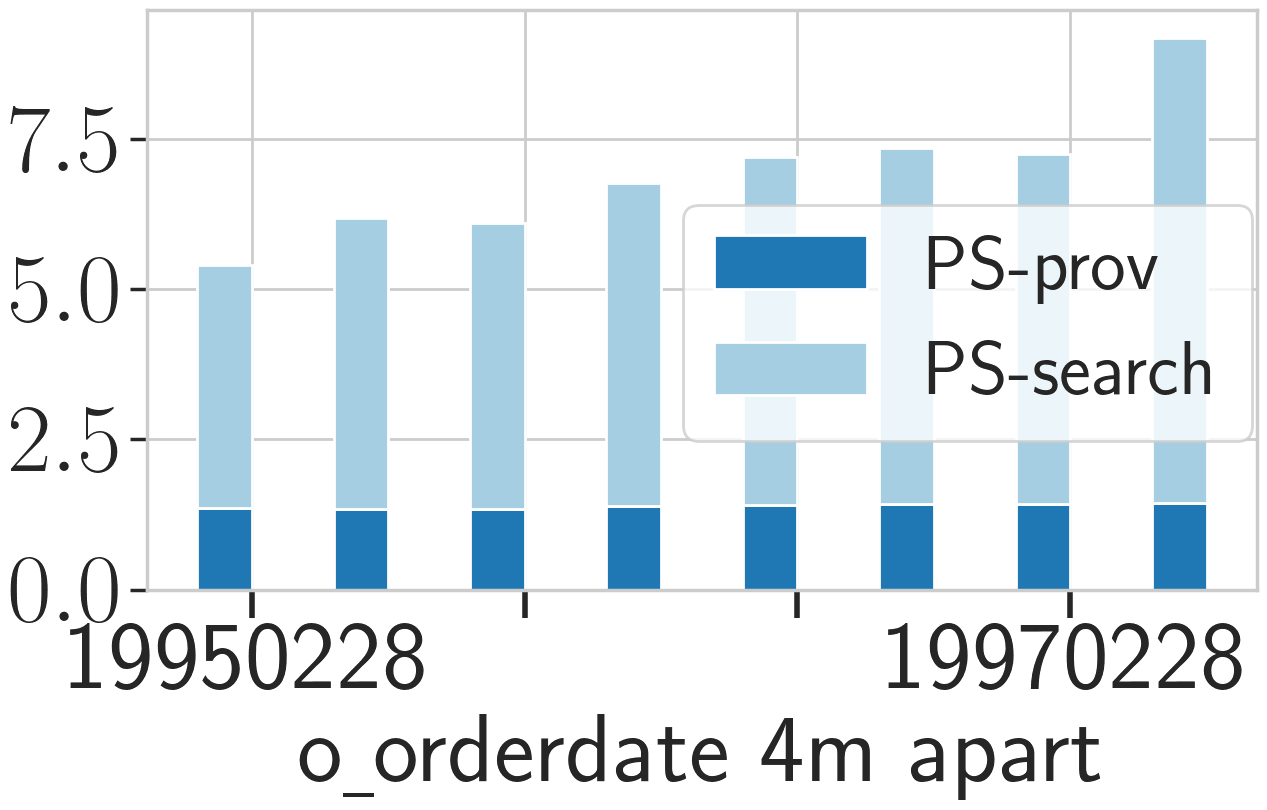
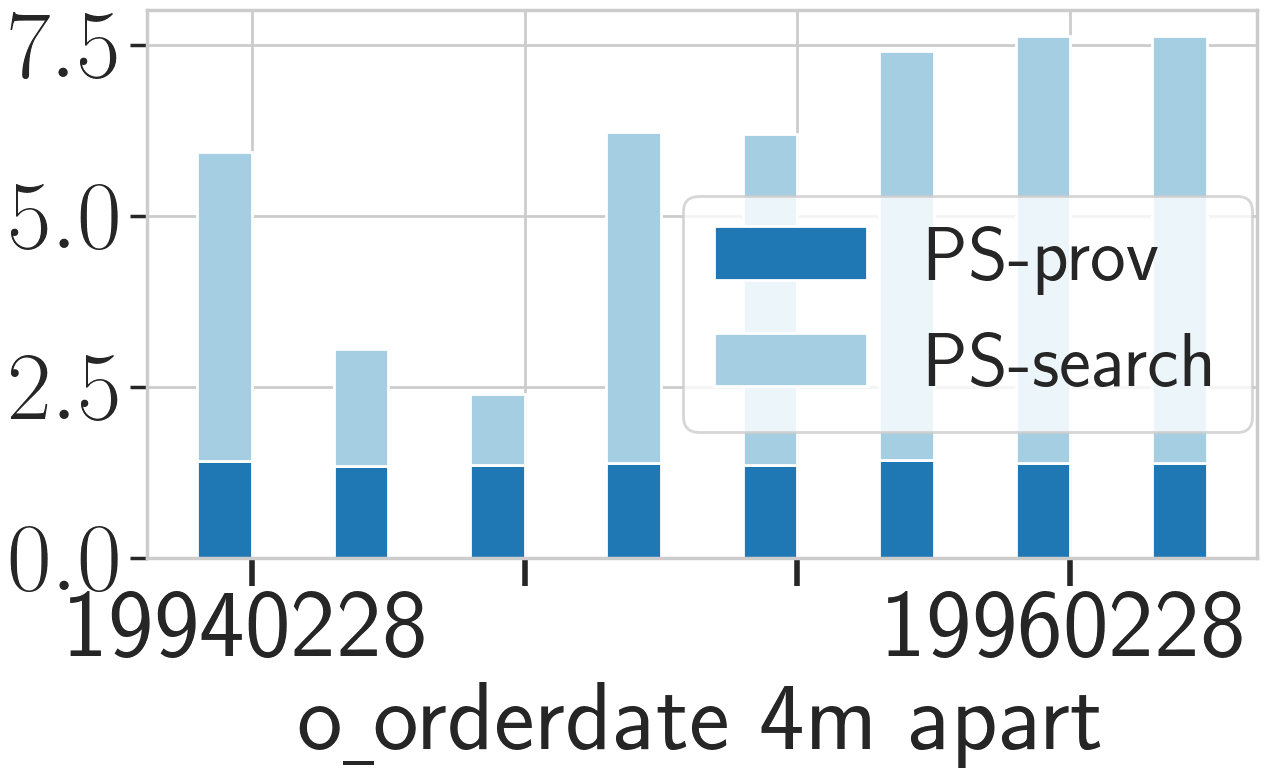
100M query selectivity q3 refine

diff --git a/Experiment/TPCH/100M/query_selectivity/q3_refine/query_change_100M_q3.py b/Experiment/TPCH/100M/query_selectivity/q3_refine/query_change_100M_q3.py
@@ -45,7 +45,7 @@ def run_constraint(c):
     result_output = open(result_output_file, "w")
     result_output.write("selection file, result\n")
 
-    for i in range(1, 9):
+    for i in range(-2, 9):
         print("query", i)
         query_file = query_file_prefix + str(i) + ".json"
         print("========================== provenance search ===================================")

diff --git a/Experiment/TPCH/100M/query_selectivity/q3_refine/fig.py b/Experiment/TPCH/100M/query_selectivity/q3_refine/fig.py
@@ -60,7 +60,7 @@ def run(query, size, constraint):
             execution_timebl1.append(0)
             execution_timebl2.append(0)
     # x_list = [19941230, 19950115, 19950130, 19950215, 19950230, 19950315, 19950330, 19950415]
-    x_list = [19950228, '', '', 19970228]
+    x_list = [19940228, '', '', 19960228]
 
     print(x_list, execution_timeps1, execution_timeps2)
 
